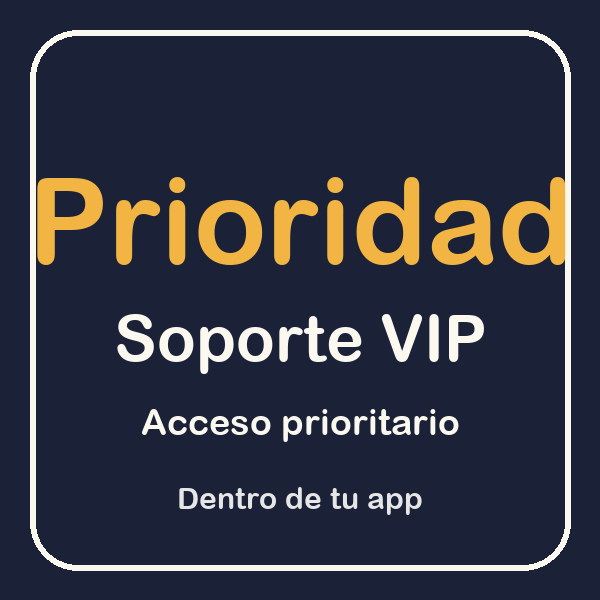
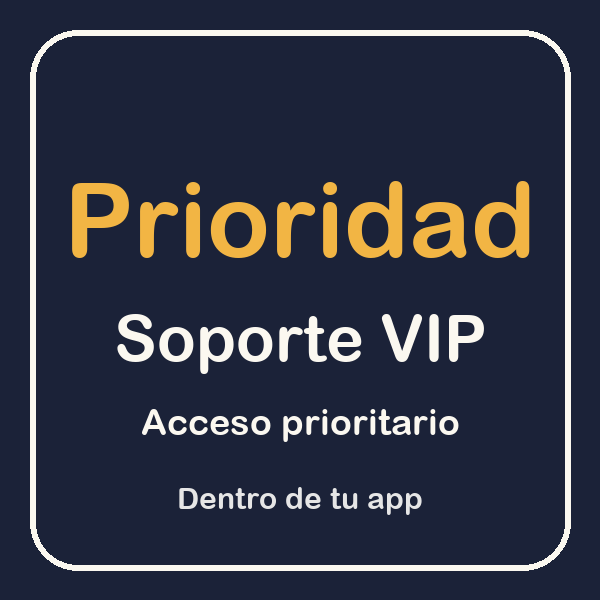
Vídeos testimonio: icono de sonido visible; imagen del bump VIP sin desbordar

Changed region(s): [[0.06, 0.27, 0.96, 0.45]]

diff --git a/styles.css b/styles.css
@@ -170,7 +170,7 @@ input[type=range]{width:100%;accent-color:var(--agave);height:36px}
 .vid video{display:block;width:100%;height:100%;object-fit:cover}
 .vid figcaption{position:absolute;left:0;right:0;top:0;padding:8px 10px;font-size:13px;color:#fff;background:linear-gradient(rgba(0,0,0,.55),transparent);pointer-events:none}
 .vid-snd{position:absolute;left:50%;bottom:12px;transform:translateX(-50%);display:inline-flex;gap:6px;align-items:center;min-height:40px;padding:8px 12px;border:0;border-radius:999px;background:rgba(28,37,65,.82);color:#fff;font:600 13px var(--body);white-space:nowrap;cursor:pointer}
-.vid-snd svg{width:18px;height:18px;fill:currentColor;stroke:currentColor;stroke-width:1.6;stroke-linecap:round}
+.vid-snd svg{flex:none;width:18px;height:18px;fill:currentColor;stroke:currentColor;stroke-width:1.6;stroke-linecap:round}
 .vid.live .vid-snd,.vid.live figcaption{display:none}
 
 /* Result */

diff --git a/index.html b/index.html
@@ -13,7 +13,7 @@
   <link rel="preconnect" href="https://fonts.googleapis.com">
   <link rel="preconnect" href="https://fonts.gstatic.com" crossorigin>
   <link href="https://fonts.googleapis.com/css2?family=Bricolage+Grotesque:opsz,wght@12..96,600;12..96,800&family=Figtree:wght@400;500;600;700&display=swap" rel="stylesheet">
-  <link rel="stylesheet" href="styles.css?v=6">
+  <link rel="stylesheet" href="styles.css?v=7">
 </head>
 <body>
   <a class="skip" href="#main">Saltar al contenido</a>
@@ -37,7 +37,7 @@
   <main id="main" tabindex="-1"></main>
   <noscript><p style="padding:24px">Activa JavaScript para hacer el test.</p></noscript>
   <script src="config.js?v=3"></script>
-  <script src="app.js?v=7"></script>
+  <script src="app.js?v=8"></script>
   <script src="attrib.js?v=1" data-page="quiz"></script>
 </body>
 </html>

diff --git a/app.js b/app.js
@@ -388,7 +388,7 @@
     }).join("") + '</div><div class="dots" aria-hidden="true">' + REVIEWS.map(function (_, i) { return "<i" + (i ? "" : ' class="on"') + "></i>"; }).join("") + "</div></div>";
   }
   // 2 vídeos testimonio (Franco L 4.4 ≈16:07: "Yo tengo dos videos. En cada embudo"). Muted autoplay + subtítulos quemados; tocar = con sonido.
-  var SND = '<svg viewBox="0 0 24 24" aria-hidden="true"><path d="M4 9v6h4l5 4V5L8 9z"/><path d="M16 9a4 4 0 010 6M18.5 6.5a7.5 7.5 0 010 11" fill="none"/></svg><span>Escuchar</span>';
+  var SND = '<svg viewBox="0 0 24 24" width="18" height="18" aria-hidden="true"><path d="M4 9v6h4l5 4V5L8 9z"/><path d="M16 9a4 4 0 010 6M18.5 6.5a7.5 7.5 0 010 11" fill="none"/></svg><span>Escuchar</span>';
   function videos() {
     var v = C.VIDEOS || [];
     if (!v.length) return "";
